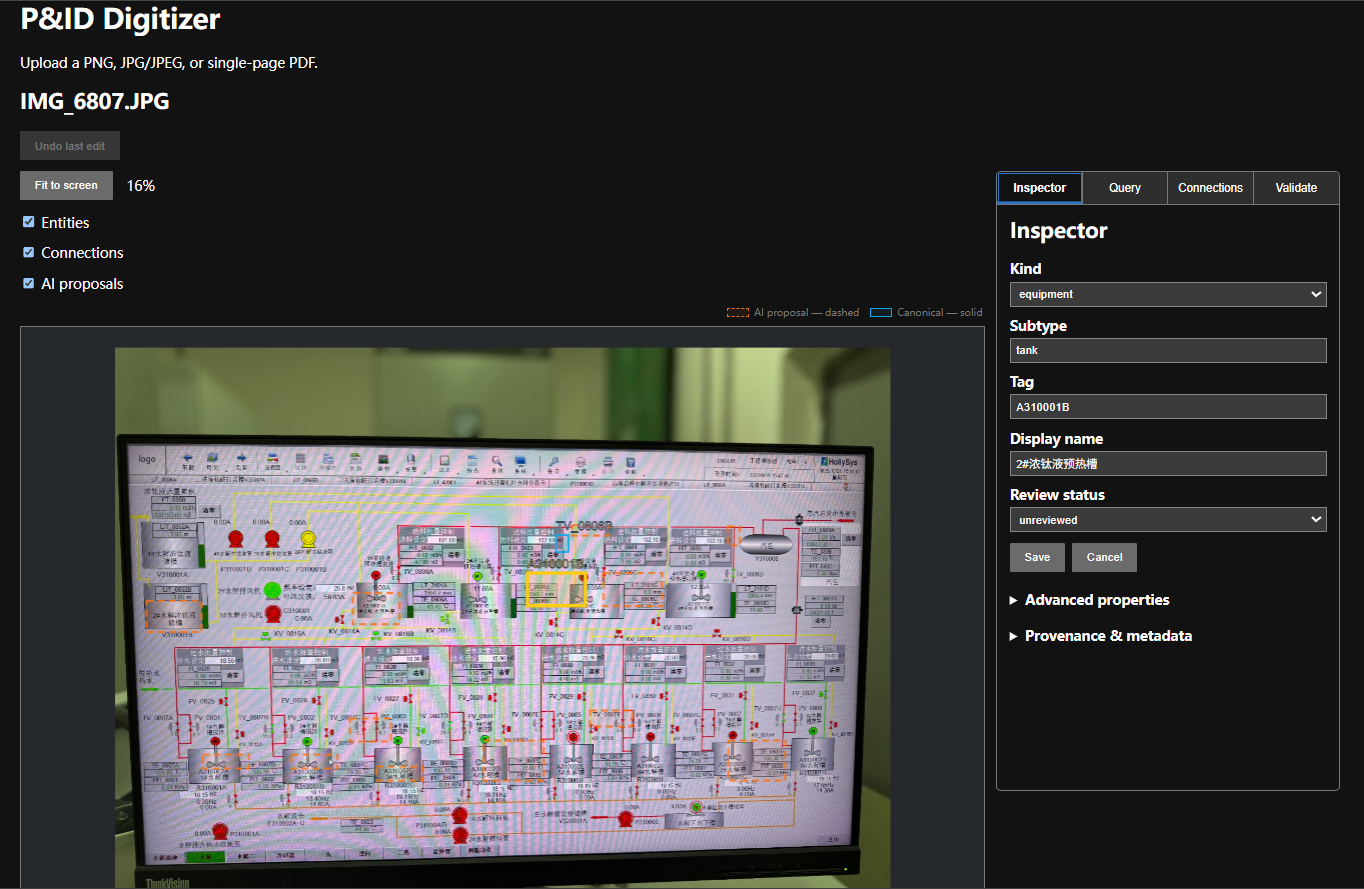
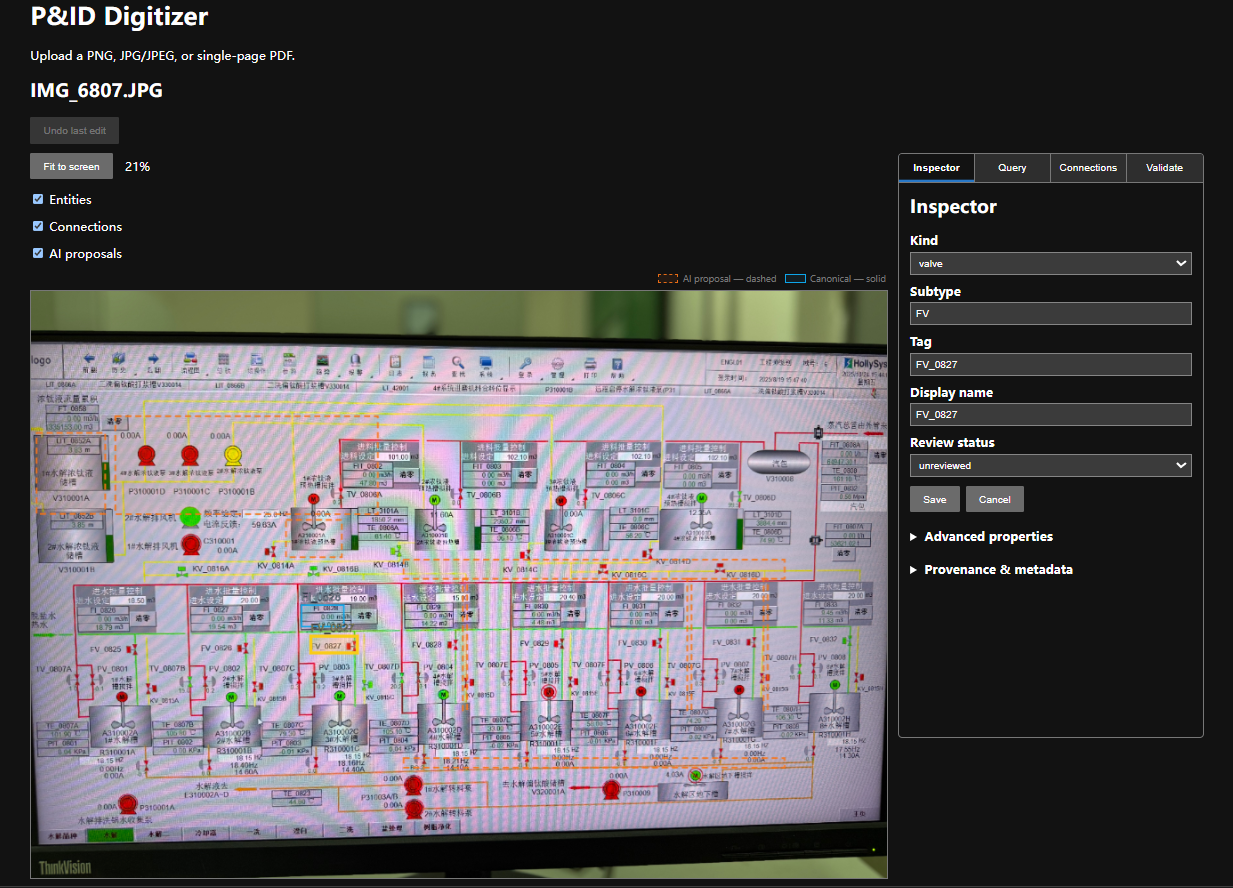
Fix deterministic demo truth and update canonical entities

diff --git a/apps/web/app/api/demo/t019/proposals/selector.ts b/apps/web/app/api/demo/t019/proposals/selector.ts
@@ -6,36 +6,37 @@ type SnapshotCandidate = Partial<ProposalOverlayCandidate> & {
   geometry?: { bbox?: Partial<ProposalOverlayCandidate["geometry"]["bbox"]> | null } | null;
 };
 
-const canonicalCandidateIds = new Set(["valves:r0c1:valve-1", "equipment_boundary:r0c1:eq1"]);
-const canonicalTags = new Set(["TV_0806B", "A310001B"]);
-const kindRank: Record<ProposalOverlayCandidate["kind"], number> = {
-  equipment: 4, valve: 3, instrument: 2, boundary: 1,
-};
+const canonicalCandidateIds = new Set(["instruments:r1c0:inst-3", "valves:r1c0:valve-7"]);
+const canonicalTags = new Set(["FI_0828", "FV_0827"]);
+
+// Each stored bbox in this fixed presentation allowlist was visually checked against IMG_6807.
+// Selection is deliberately not inferred from box size, score, or page distribution.
+export const verifiedProposalCandidateIds = [
+  "equipment_boundary:r0c0:cand-1",
+  "equipment_boundary:r0c0:cand-6",
+  "equipment_boundary:r0c0:cand-7",
+  "equipment_boundary:r1c1:bdry-top-header",
+  "equipment_boundary:r1c1:bdry-inlet-D",
+  "equipment_boundary:r1c1:bdry-inlet-F",
+  "equipment_boundary:r1c1:bdry-inlet-G",
+  "equipment_boundary:r1c1:bdry-bottom-header",
+] as const;
 
 export function selectProposalOverlays(candidates: SnapshotCandidate[]): ProposalOverlayCandidate[] {
-  const cells = new Map<string, { candidate: ProposalOverlayCandidate; score: number }>();
+  const byId = new Map<string, ProposalOverlayCandidate>();
   for (const raw of candidates) {
     const candidate = normalizedCandidate(raw);
     if (!candidate || canonicalCandidateIds.has(candidate.candidateId)
       || (candidate.tag ? canonicalTags.has(candidate.tag) : false)) continue;
     const box = candidate.geometry.bbox;
-    const area = box.width * box.height;
     if (box.x < 0 || box.y < 0 || box.x + box.width > 1 || box.y + box.height > 1
-      || box.width < 0.02 || box.height < 0.02 || area < 0.0003 || area > 0.025) continue;
-
-    const column = Math.min(3, Math.floor((box.x + box.width / 2) * 4));
-    const row = Math.min(2, Math.floor((box.y + box.height / 2) * 3));
-    const cell = `${column}:${row}`;
-    const score = kindRank[candidate.kind] + (candidate.tag ? 2 : 0)
-      + (candidate.displayName?.trim() ? 0.5 : 0) - Math.abs(Math.log(area / 0.002));
-    const current = cells.get(cell);
-    if (!current || score > current.score
-      || (score === current.score && candidate.candidateId < current.candidate.candidateId)) {
-      cells.set(cell, { candidate, score });
-    }
+      || box.width <= 0 || box.height <= 0) continue;
+    byId.set(candidate.candidateId, candidate);
   }
-  return [...cells.entries()].sort(([left], [right]) => left.localeCompare(right))
-    .map(([, item]) => item.candidate).slice(0, 8);
+  return verifiedProposalCandidateIds.flatMap((candidateId) => {
+    const candidate = byId.get(candidateId);
+    return candidate ? [candidate] : [];
+  });
 }
 
 function normalizedCandidate(raw: SnapshotCandidate): ProposalOverlayCandidate | null {

diff --git a/apps/web/app/api/demo/t019/proposals/selector.test.ts b/apps/web/app/api/demo/t019/proposals/selector.test.ts
@@ -1,7 +1,7 @@
 import { readFileSync } from "node:fs";
 import path from "node:path";
 import { expect, test } from "vitest";
-import { selectProposalOverlays } from "./selector";
+import { selectProposalOverlays, verifiedProposalCandidateIds } from "./selector";
 
 const snapshotPath = path.resolve(process.cwd(), "../../benchmarks/hydrolysis/evaluations/fixtures/IMG_6807.openai-gpt5.tiled-20260816-02-validation-v1.proposal.json");
 
@@ -11,19 +11,18 @@ test("selects the fixed IMG_6807 proposal-only presentation set deterministicall
   };
   const selected = selectProposalOverlays(snapshot.mergedProposal.candidates);
 
-  expect(selected.map((candidate) => candidate.candidateId)).toEqual([
-    "equipment_boundary:r0c0:cand-2",
-    "instruments:r1c0:inst-5",
-    "equipment_boundary:r0c0:cand-6",
-    "instruments:r1c0:inst-10",
-    "equipment_boundary:r0c1:eq4",
-    "equipment_boundary:r1c1:eq-A310002D-tank",
-    "equipment_boundary:r0c1:eq7",
-    "equipment_boundary:r1c1:eq-A310002G-tank",
-  ]);
+  expect(selected.map((candidate) => candidate.candidateId)).toEqual(verifiedProposalCandidateIds);
   expect(selected).toHaveLength(8);
-  expect(selected.every((candidate) => candidate.geometry.bbox.width >= 0.02
-    && candidate.geometry.bbox.height >= 0.02)).toBe(true);
-  expect(selected.map((candidate) => candidate.tag)).not.toContain("TV_0806B");
-  expect(selected.map((candidate) => candidate.tag)).not.toContain("A310001B");
+  expect(selected.every((candidate) => candidate.geometry.bbox.width > 0
+    && candidate.geometry.bbox.height > 0)).toBe(true);
+  expect(selected.map((candidate) => candidate.tag)).not.toContain("FI_0828");
+  expect(selected.map((candidate) => candidate.tag)).not.toContain("FV_0827");
+});
+
+test("does not substitute geometric lookalikes when a reviewed candidate is absent", () => {
+  const selected = selectProposalOverlays([{
+    candidateId: "unreviewed-lookalike", kind: "equipment", tag: "LOOKALIKE",
+    geometry: { bbox: { x: 0.1, y: 0.1, width: 0.2, height: 0.2 } },
+  }]);
+  expect(selected).toEqual([]);
 });

diff --git a/apps/web/app/page.test.tsx b/apps/web/app/page.test.tsx
@@ -203,7 +203,8 @@ test("loads proposal-only overlays for the prepared demo without changing canoni
     }) })
     .mockResolvedValueOnce({ ok: true, json: async () => ({
       schemaVersion: "0.1", documentId: "t019-demo-img6807",
-      entities: [persistedEntity, { ...persistedEntity, id: "entity-2", tag: "TV_0806B" }],
+      entities: [{ ...persistedEntity, id: "t019:entity:fi-0828", tag: "FI_0828" },
+        { ...persistedEntity, id: "t019:entity:fv-0827", tag: "FV_0827", kind: "valve", subtype: "FV" }],
       connections: [persistedConnection], metadata: {},
     }) })
     .mockResolvedValueOnce({ ok: true, json: async () => ({

diff --git a/services/api/demo/t019_demo.py b/services/api/demo/t019_demo.py
@@ -1,8 +1,9 @@
 """Prepare and validate the isolated, non-production T019 local demo.
 
 This module is never imported by production routing. It validates one fixed saved entity proposal,
-creates two inferred/unreviewed canonical entities, and adds one separately human-reviewed source-
-image connection. It is not a proposal-acceptance or graph-import product boundary.
+creates two inferred/unreviewed canonical entities, and adds one separately human-reviewed,
+directionless source-image reference association. It is not a proposal-acceptance or graph-import
+product boundary.
 """
 
 from __future__ import annotations
@@ -34,6 +35,11 @@ DEFAULT_MANIFEST = Path("/demo/t019-manifest.json")
 DEFAULT_PROPOSAL = Path("/demo/proposal.json")
 DEFAULT_IMAGE = Path("/demo/IMG_6807.JPG")
 FIXED_TIMESTAMP = "2026-08-16T00:00:00Z"
+EXPECTED_ENTITIES = {
+    "instruments:r1c0:inst-3": ("t019:entity:fi-0828", "FI_0828", "instrument", None),
+    "valves:r1c0:valve-7": ("t019:entity:fv-0827", "FV_0827", "valve", "FV"),
+}
+EXPECTED_CONNECTION_ID = "t019:connection:fi-0828--fv-0827"
 
 
 def load_and_validate_assets(
@@ -60,6 +66,12 @@ def load_and_validate_assets(
     if proposal.get("canonicalGraphMutated") is not False:
         raise ValueError("saved proposal must record canonicalGraphMutated=false")
     by_id = {candidate["candidateId"]: candidate for candidate in candidates}
+    manifest_entities = {
+        item["proposalCandidateId"]: (item["canonicalId"], item["tag"], item["kind"], item["subtype"])
+        for item in manifest["entities"]
+    }
+    if manifest_entities != EXPECTED_ENTITIES:
+        raise ValueError("prepared entities differ from the audited FI_0828/FV_0827 pair")
     for entity in manifest["entities"]:
         candidate = by_id.get(entity["proposalCandidateId"])
         if candidate is None:
@@ -72,10 +84,17 @@ def load_and_validate_assets(
             raise ValueError(f"manifest provenance differs from {entity['proposalCandidateId']}")
         if entity["assertion"] != {"mode": "inferred", "reviewStatus": "unreviewed"}:
             raise ValueError("proposal-derived entities must start inferred/unreviewed")
+        if "manually verified against IMG_6807" not in entity.get("geometryReview", ""):
+            raise ValueError("prepared entity geometry review is missing")
     connections = manifest["connections"]
     if len(connections) != 1:
         raise ValueError("T019 manifest must contain exactly one connection")
     connection = connections[0]
+    if (connection["canonicalId"] != EXPECTED_CONNECTION_ID
+            or connection["sourceEntityId"] != "t019:entity:fi-0828"
+            or connection["targetEntityId"] != "t019:entity:fv-0827"
+            or connection["kind"] != "reference"):
+        raise ValueError("prepared connection differs from the audited FI_0828/FV_0827 reference")
     if connection["modelTopologyCandidateId"] is not None:
         raise ValueError("human-reviewed connection cannot claim a model topology candidate")
     if connection["direction"] != "unknown" or connection["geometry"] is not None:
@@ -163,9 +182,9 @@ def check() -> dict:
         expected = build_graph(manifest, prepared["documentId"], prepared["pageId"])
         _assert_initial_graph(graph, expected)
         query = GraphQueryService().query(graph, NeighborsQuery(
-            operation="neighbors", entity_id="t019:entity:tv-0806b"))
+            operation="neighbors", entity_id="t019:entity:fi-0828"))
         expected_chat = manifest["graphChat"]
-        if query.entity_ids != ["t019:entity:a310001b"] or query.connection_ids != expected_chat["expectedSupportingConnectionIds"]:
+        if query.entity_ids != ["t019:entity:fv-0827"] or query.connection_ids != expected_chat["expectedSupportingConnectionIds"]:
             raise ValueError("deterministic neighbor query differs from demo manifest")
         chat = asyncio.run(ChatService().respond(graph, ChatRequest(
             message=expected_chat["question"], verbalize=False)))

diff --git a/services/api/tests/test_t019_demo.py b/services/api/tests/test_t019_demo.py
@@ -27,12 +27,20 @@ def test_saved_proposal_and_manifest_preserve_provenance_boundaries() -> None:
     assert manifest["connections"][0]["modelTopologyCandidateId"] is None
     graph = build_graph(manifest, "document", "page")
     assert len(graph.entities) == 2
+    assert {(item.id, item.tag, item.kind, item.subtype) for item in graph.entities} == {
+        ("t019:entity:fi-0828", "FI_0828", "instrument", None),
+        ("t019:entity:fv-0827", "FV_0827", "valve", "FV"),
+    }
+    assert {item["proposalCandidateId"] for item in manifest["entities"]} == {
+        "instruments:r1c0:inst-3", "valves:r1c0:valve-7",
+    }
     assert all(item.assertion.mode == "inferred" for item in graph.entities)
     assert all(item.assertion.review_status == "unreviewed" for item in graph.entities)
     assert all(item.confidence is None for item in graph.entities)
     assert all(item.provenance[0].source_type == "model" for item in graph.entities)
     connection = graph.connections[0]
-    assert connection.kind == "process"
+    assert connection.id == "t019:connection:fi-0828--fv-0827"
+    assert connection.kind == "reference"
     assert connection.direction == "unknown"
     assert connection.geometry is None and connection.confidence is None
     assert connection.assertion.mode == "human_added"
@@ -40,6 +48,8 @@ def test_saved_proposal_and_manifest_preserve_provenance_boundaries() -> None:
     assert connection.provenance[0].source_type == "human"
     assert "not model output" in connection.provenance[0].note
     assert "not derived from benchmark truth" in connection.provenance[0].note
+    assert "not process flow" in connection.provenance[0].note
+    assert "formal control-loop" in connection.provenance[0].note
 
 
 def test_demo_graph_has_only_the_approved_undirected_neighbor_result() -> None:
@@ -47,6 +57,6 @@ def test_demo_graph_has_only_the_approved_undirected_neighbor_result() -> None:
     graph = build_graph(manifest, "document", "page")
     service = GraphQueryService()
     result = service.query(graph, NeighborsQuery(
-        operation="neighbors", entity_id="t019:entity:tv-0806b"))
-    assert result.entity_ids == ["t019:entity:a310001b"]
-    assert result.connection_ids == ["t019:connection:tv-0806b--a310001b"]
+        operation="neighbors", entity_id="t019:entity:fi-0828"))
+    assert result.entity_ids == ["t019:entity:fv-0827"]
+    assert result.connection_ids == ["t019:connection:fi-0828--fv-0827"]

diff --git a/docs/DEMO.md b/docs/DEMO.md
@@ -21,36 +21,41 @@ T014 only orchestrates that query and uses `verbalize:false`.
 - The snapshot has 131 entity candidates and **zero topology proposals**.
 - Manifest: `demo/t019-manifest.json`
 
-The prepared canonical state contains only two proposal-derived entities. Their selected fields and
-exact proposal geometry are copied from candidates `valves:r0c1:valve-1` and
-`equipment_boundary:r0c1:eq1`; confidence is absent because the proposal supplies none. Both begin
-`assertion=inferred`, `reviewStatus=unreviewed`, with model-candidate provenance.
+The prepared canonical state contains only two proposal-derived entities: instrument `FI_0828` from
+candidate `instruments:r1c0:inst-3` and valve `FV_0827` from candidate
+`valves:r1c0:valve-7`. Their exact stored candidate boxes were manually compared with IMG_6807:
+the first encloses the `FI_0828` display and tag; the second encloses the `FV_0827` tag, red valve
+symbol, and green branch. No geometry was adjusted or invented. Confidence is absent because the
+proposal supplies none. Both begin `assertion=inferred`, `reviewStatus=unreviewed`, with
+model-candidate provenance. This source-correspondence review does not make either entity verified
+plant engineering truth.
 
 For presentation only, the web app also reads that committed snapshot locally and displays eight
 proposal-only boxes. They are not inserted into `EngineeringGraph`, persisted, queried, reviewed,
-or sent to DEXPI. A fixed selector excludes the two prepared candidates and their tags, rejects
-invalid, tiny, and page-covering boxes, then selects the best labeled engineering candidate in each
-occupied cell of a 4-by-3 image grid. The selected snapshot candidate IDs are:
+or sent to DEXPI. The presentation uses a fixed allowlist whose exact stored boxes were manually
+compared with visible source evidence. It excludes the two canonical candidates and does not infer
+correctness from box size, score, or page distribution. The selected snapshot candidate IDs are:
 
-- `equipment_boundary:r0c0:cand-2`
-- `instruments:r1c0:inst-5`
+- `equipment_boundary:r0c0:cand-1`
 - `equipment_boundary:r0c0:cand-6`
-- `instruments:r1c0:inst-10`
-- `equipment_boundary:r0c1:eq4`
-- `equipment_boundary:r1c1:eq-A310002D-tank`
-- `equipment_boundary:r0c1:eq7`
-- `equipment_boundary:r1c1:eq-A310002G-tank`
+- `equipment_boundary:r0c0:cand-7`
+- `equipment_boundary:r1c1:bdry-top-header`
+- `equipment_boundary:r1c1:bdry-inlet-D`
+- `equipment_boundary:r1c1:bdry-inlet-F`
+- `equipment_boundary:r1c1:bdry-inlet-G`
+- `equipment_boundary:r1c1:bdry-bottom-header`
 
 These are unreviewed model-output visualizations, not benchmark truth or verified engineering truth.
 Their muted dashed boxes sit behind the stronger solid canonical overlays and can be hidden with the
 **AI proposals** checkbox. No live model call occurs.
 
 The one connection was not produced by the model. A human directly reviewed IMG_6807 and confirmed
-that the visible red feed line through TV_0806B terminates at A310001B. It is stored as
-`human_added`/`confirmed`, `kind=process`, no confidence, no geometry, and `direction=unknown`.
-`sourceEntityId` and `targetEntityId` identify the two structural endpoints only; the separate
-`direction=unknown` value makes no engineering-flow claim. Benchmark truth and evaluation matches
-were not used.
+only a visible reference association between `FI_0828` and `FV_0827`: they occupy the same visible
+feed-control column, and the continuous green branch below the FI display passes through the FV
+valve symbol. It is stored as `human_added`/`confirmed`, `kind=reference`, no confidence, no
+connection geometry, and `direction=unknown`. The endpoint ordering is structural only. This is not
+a process-flow, upstream/downstream, or formal control-loop claim. Benchmark truth and evaluation
+matches were not used.
 
 ## Prerequisites
 
@@ -107,29 +112,31 @@ No digitization endpoint is invoked during setup or presentation.
 
 ## Presenter checklist
 
-1. Run `npm run demo:check`; expect JSON with `status=ready`, two entity IDs, one connection ID,
+1. Run `npm run demo:check`; expect JSON with `status=ready`, entity IDs `t019:entity:fi-0828` and
+   `t019:entity:fv-0827`, connection ID `t019:connection:fi-0828--fv-0827`,
    `topologyProposalCount=0`, and `aiProviderInvoked=false`.
 2. Open the exact URL above; expect `IMG_6807.JPG`, two strong canonical overlays, and eight visible,
    dashed proposal-only overlays. Toggle **AI proposals** to demonstrate the separate visual layer.
 3. Explain the source image, fixed entity-only saved snapshot, prepared editable canonical state, and
    separately human-reviewed connection. State that no live AI call occurred.
 4. Briefly drag, zoom, and select **Fit to screen**.
-5. Select the larger `A310001B` vessel overlay; expect confidence **Not provided**, assertion
+5. Select the `FI_0828` instrument overlay; expect confidence **Not provided**, assertion
    **inferred**, review status **unreviewed**, and provenance referencing candidate
-   `equipment_boundary:r0c1:eq1`.
-6. Human review action: change Display name from `2#浓钛液预热槽` to `Reviewed preheater tank` and
+   `instruments:r1c0:inst-3`. Select `FV_0827` and verify provenance references
+   `valves:r1c0:valve-7` and the solid canonical overlay remains visually dominant.
+6. Human review action: change Display name from `FI 0828` to `Reviewed flow indicator` and
    Review status to `corrected`; select **Save**.
-7. Reload the same URL, select `A310001B`, and expect the display name and `corrected` state to persist.
+7. Reload the same URL, select `FI_0828`, and expect the display name and `corrected` state to persist.
    Assertion remains `inferred`; the existing PATCH API does not rewrite origin history.
-8. Ask exactly: **What is connected to TV_0806B?**
-9. Expect: **TV_0806B has 1 directly connected canonical entities.**
-10. Expect supporting entities `t019:entity:a310001b, t019:entity:tv-0806b` and supporting connection
-    `t019:connection:tv-0806b--a310001b`.
+8. Ask exactly: **What is connected to FI_0828?**
+9. Expect: **FI_0828 has 1 directly connected canonical entities.**
+10. Expect supporting entities `t019:entity:fi-0828, t019:entity:fv-0827` and supporting connection
+    `t019:connection:fi-0828--fv-0827`.
 11. Expect both entity IDs to have high-contrast canvas highlights while Inspector selection remains
-    the single `t019:entity:a310001b`. The **Highlighted topology** notice shows
-    `TV_0806B ↔ A310001B` and **Connection geometry not recorded.**
+    the single `t019:entity:fi-0828`. The **Highlighted topology** notice shows
+    `FI_0828 ↔ FV_0827` and **Connection geometry not recorded.**
     No connection line is drawn because the canonical relationship has no geometry. Query and
-    highlight behavior are read-only.
+    highlight behavior are read-only. Do not demonstrate an upstream/downstream query.
 12. Run `npm run demo:reset` and `npm run demo:check`. Reopen the URL; expect blank Display name,
     inferred/unreviewed entities, the confirmed human-added connection, and no revision history.
 
@@ -159,7 +166,9 @@ distribution implications remain unresolved, and the spike is not a standard DEX
 - There is no production proposal-acceptance/import workflow.
 - Only two saved entity candidates and one independently human-reviewed connection are prepared as
   canonical state; the eight additional boxes are proposal-only visualizations.
-- Proposal geometry is model output and is not benchmark-verified or selectable for canonical review.
-- Connectivity is confirmed; flow direction is deliberately unknown.
+- Proposal geometry is model output, not benchmark truth. The fixed presentation allowlist was
+  manually checked only for visible source correspondence and remains non-canonical/unreviewed.
+- A visible `FI_0828`/`FV_0827` reference association is confirmed; connection geometry and direction
+  are deliberately absent, and no process-flow or formal control-loop semantics are claimed.
 - Graph Chat supports only the documented deterministic intent patterns.
 - Multi-page documents, collaboration, safety reasoning, and automated plant control remain out of scope.
